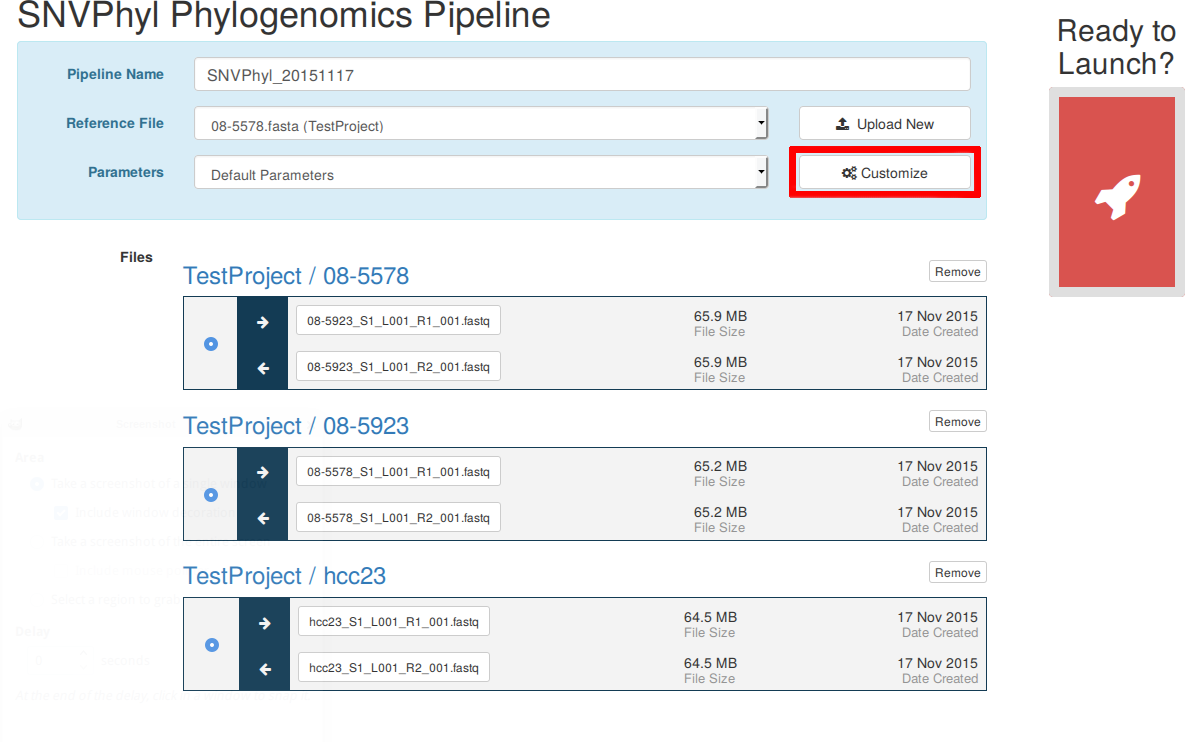
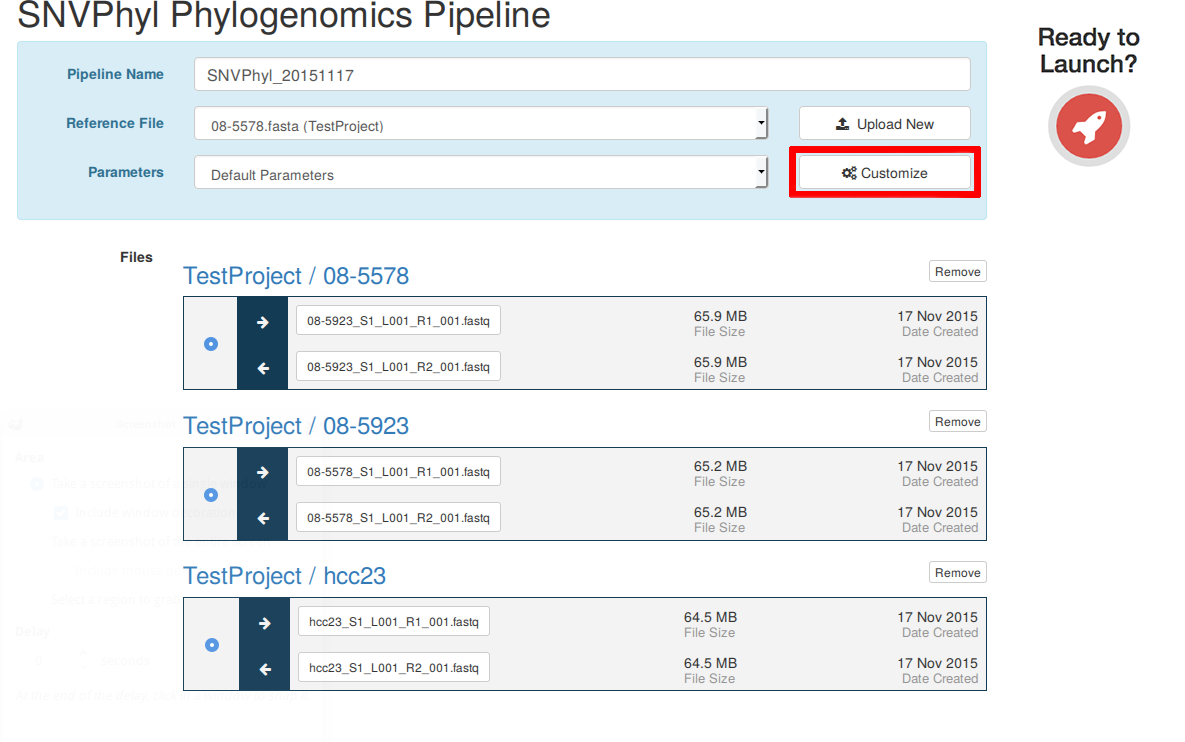
Fixed launch button disappearing

Changed region(s): [[0.8743, 0.031, 1.0, 0.403]]

diff --git a/src/main/webapp/pages/pipelines/types/generic_pipeline.html b/src/main/webapp/pages/pipelines/types/generic_pipeline.html
@@ -5,8 +5,6 @@
 	<title th:text="${title}">Pipelines - Launch</title>
 	<link rel="stylesheet" href="/resources/css/pages/sample_files.css"
 	      th:href="@{/resources/css/pages/sample_files.css}"/>
-	<style>
-	</style>
 	<script th:inline="javascript">
 	/*<![CDATA[*/
 	    window.dependencies = ['irida.pipelines'];
@@ -27,12 +25,22 @@
 		};
 		/*]]>*/
 	</script>
+	<style>
+		@media (max-width: 767px) {
+			.affix {
+				position: static;
+				width: auto;
+				top: 0;
+			}
+		}
+	</style>
 </head>
 <body>
 <div layout:fragment="page" ng-app="irida.pipelines" ddl:bundle-includes="launch-pipeline" >
 	<form class="form-horizontal" method="post" ng-controller="PipelineController as pipeline">
 		<div class="row" id="pipeline-creation">
-			<div class="col-md-10">
+
+			<div class="col-md-10 col-sm-12">
 				<h1 th:text="${mainTitle}"></h1>
 
 				<div class="alert alert-info">
@@ -129,11 +137,45 @@
 						</div>
 					</div>
 				</div>
+				</div>
+				<div class="col-md-2 col-sm-12" style="position: relative;" ng-switch="pipeline.loading">
+					<div ng-switch-when="false" class="ng-cloak text-center">
+						<h2 th:text="#{workflow.launch.btn}">Ready to Launch?</h2>
 
-				<div class="form-group">
+						<div>
+							<button id="btn-launch" class="btn btn-danger btn-action"
+							        th:title="#{workflow.launch.btn.title}"
+							        ng-click="pipeline.launch()">
+								<span class="fa fa-rocket"></span>
+							</button>
+						</div>
+					</div>
+					<div id="pipeline-submitted" class="ng-cloak" ng-switch-when="true">
+						<div ng-hide="pipeline.success" class="alert alert-info">
+							<strong class="fa fa-2x fa-fw fa-coffee"></strong>&nbsp;
+							<span th:text="#{workflow.pipeline-kickoff-message}"></span>
+						</div>
+						<div id="pipeline-submitted-success" ng-show="pipeline.success" class="alert alert-success">
+							<strong class="fa fa-2x fa-smile-o text-center"></strong>&nbsp;
+							<span th:text="#{workflow.submitted-success}">You must be awesome!  All your files looked good and the pipeline has been launched and the pedal should hit the metal soon.</span>
+							<br/><br/>
+							<a id="btn-see-pipeline" class="btn btn-success btn-affixed" href="#"
+							   th:href="@{/analysis}"
+							   th:text="#{workflow.submitted-view-btn}">Let's see how this pipeline is doing.
+							</a>
+							<br/><br/>
+							<button id="btn-clear-pipeline" class="btn btn-warning btn-affixed"
+							        ng-click="pipeline.clearAndRedirect()"
+							        th:text="#{workflow.submitted-clear-btn}">Clear the cart and start over!
+							</button>
+						</div>
+					</div>
+			</div>
+			<div class="row">
+				<div class="form-group col-md-10">
 					<label class="col-sm-2 control-label" th:text="#{workflow.label.files}">Files</label>
 
-					<div class="col-sm-10" th:with="dateFormat=#{locale.date.short}">
+					<div class="col-md-10 col-sm-12" th:with="dateFormat=#{locale.date.short}">
 						<th:block th:each="project : ${projects}">
 
 							<div th:id="${'sample-' + sample.id}" class="sample-container" th:each="sample : ${project.samples}">
@@ -256,41 +298,7 @@
 					</div>
 				</div>
 			</div>
-			<div class="col-md-2" ng-switch="pipeline.loading">
-				<div data-spy="affix" style="width: 200px;">
-					<div ng-switch-when="false" class="ng-cloak text-center">
-						<h2 th:text="#{workflow.launch.btn}">Ready to Launch?</h2>
 
-						<div>
-							<button id="btn-launch" class="btn btn-xl btn-danger btn-action"
-							        th:title="#{workflow.launch.btn.title}"
-							        ng-click="pipeline.launch()">
-								<span class="fa fa-rocket"></span>
-							</button>
-						</div>
-					</div>
-					<div id="pipeline-submitted" class="ng-cloak" ng-switch-when="true">
-						<div ng-hide="pipeline.success" class="alert alert-info">
-							<strong class="fa fa-2x fa-fw fa-coffee"></strong>&nbsp;
-							<span th:text="#{workflow.pipeline-kickoff-message}"></span>
-						</div>
-						<div id="pipeline-submitted-success" ng-show="pipeline.success" class="alert alert-success">
-							<strong class="fa fa-2x fa-smile-o text-center"></strong>&nbsp;
-							<span th:text="#{workflow.submitted-success}">You must be awesome!  All your files looked good and the pipeline has been launched and the pedal should hit the metal soon.</span>
-							<br/><br/>
-							<a id="btn-see-pipeline" class="btn btn-success btn-affixed" href="#"
-							   th:href="@{/analysis}"
-							   th:text="#{workflow.submitted-view-btn}">Let's see how this pipeline is doing.
-							</a>
-							<br/><br/>
-							<button id="btn-clear-pipeline" class="btn btn-warning btn-affixed"
-							        ng-click="pipeline.clearAndRedirect()"
-							        th:text="#{workflow.submitted-clear-btn}">Clear the cart and start over!
-							</button>
-						</div>
-					</div>
-				</div>
-			</div>
 		</div>
 	</form>
 </div>

diff --git a/src/main/webapp/styles/components/_buttons.scss b/src/main/webapp/styles/components/_buttons.scss
@@ -11,11 +11,21 @@
 
 .btn-action {
   border: 1rem solid $irida-colour-grey !important;
+  display: flex;
+  align-items: center;
+  justify-content: center;
+  height: 100px;
+  width: 100px;
+  line-height: 100px!important;
+  font-size: 4.5rem;
+  border-radius: 50%;
+  margin: 10px auto;
 }
 
 .btn-affixed {
   width: 100%;
   white-space: normal !important;
+  text-wrap:normal!important;
 }
 
 .btn-icon {
